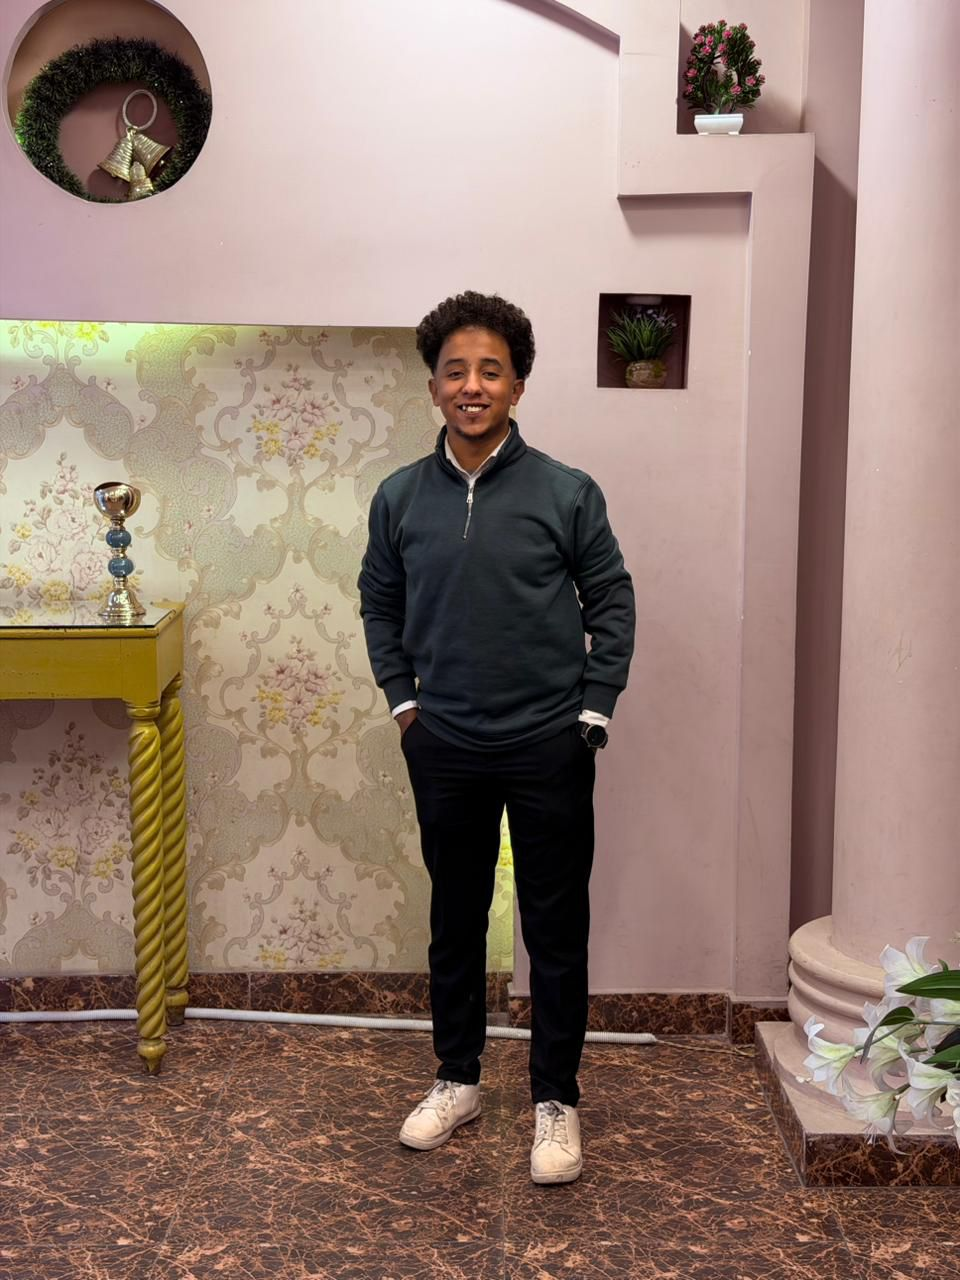
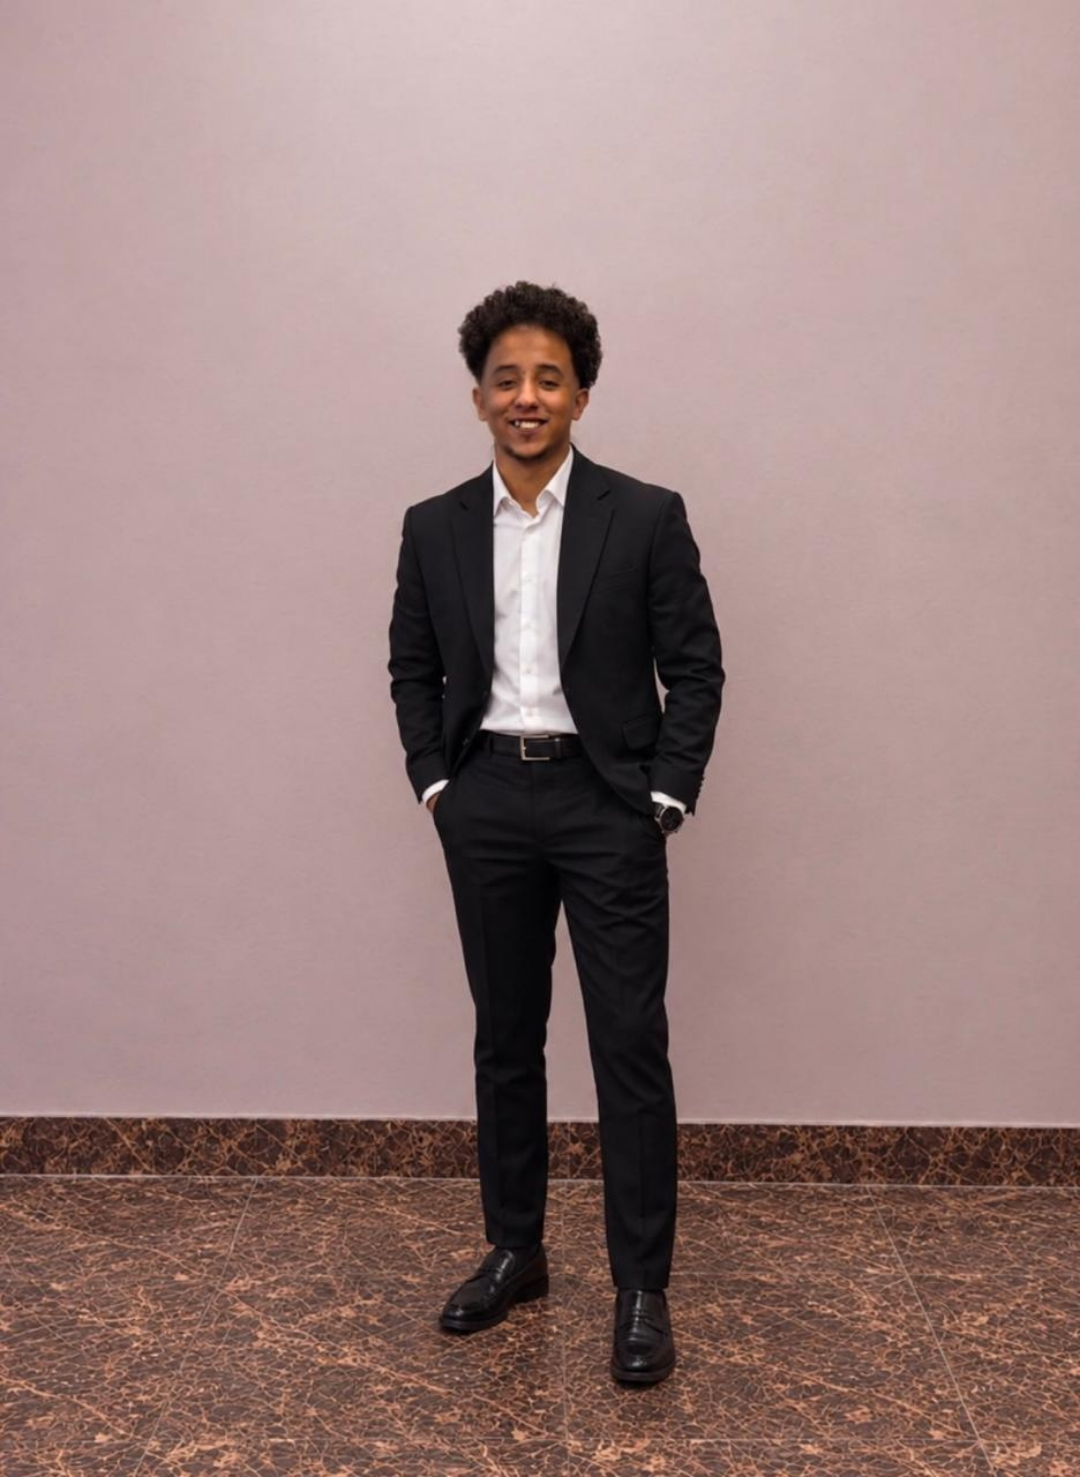
fix: update typed strings in home component and adjust backSpeed

diff --git a/src/components/home/home.ts b/src/components/home/home.ts
@@ -30,14 +30,12 @@ export class Home implements OnInit, AfterViewInit {
     setTimeout(() => {
       new Typed('.typed', {
         strings: [
-          'Front-End Developer',
-          '.NET Developer',
-          'Angular Developer',
-          'RESTful API Developer',
+          'Web Developer',
+          'Freelancer',
           'Full-Stack Developer'
         ],
         typeSpeed: 70,
-        backSpeed: 45,
+        backSpeed: 50,
         loop: true
       });
     }, 200);
